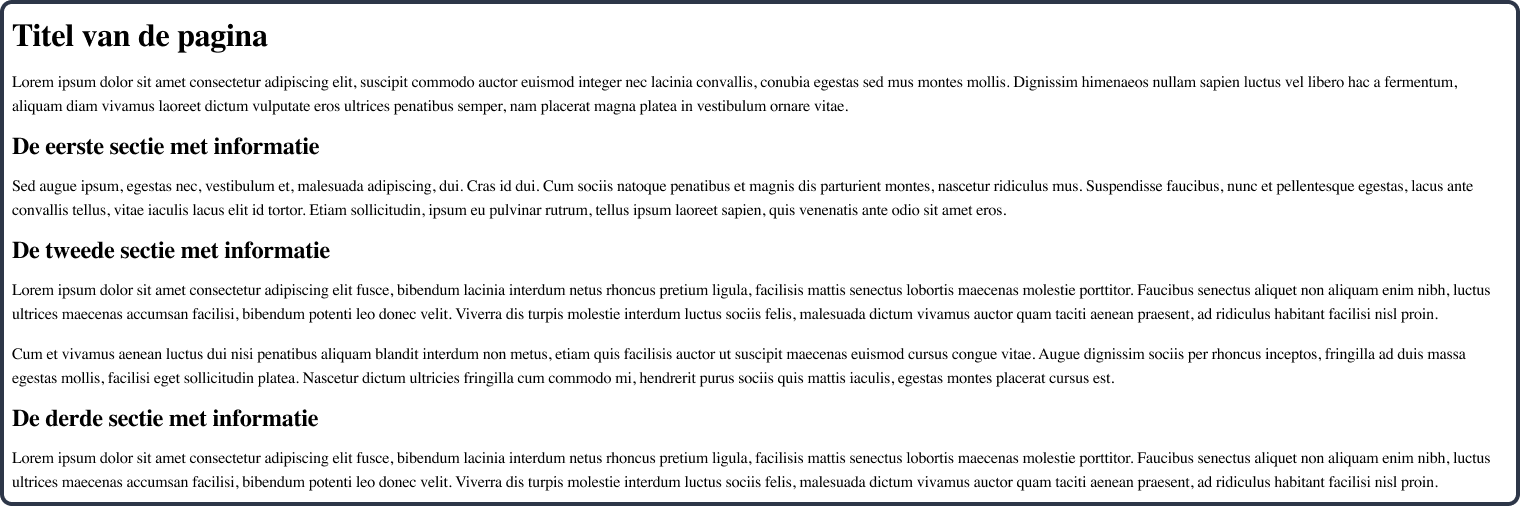
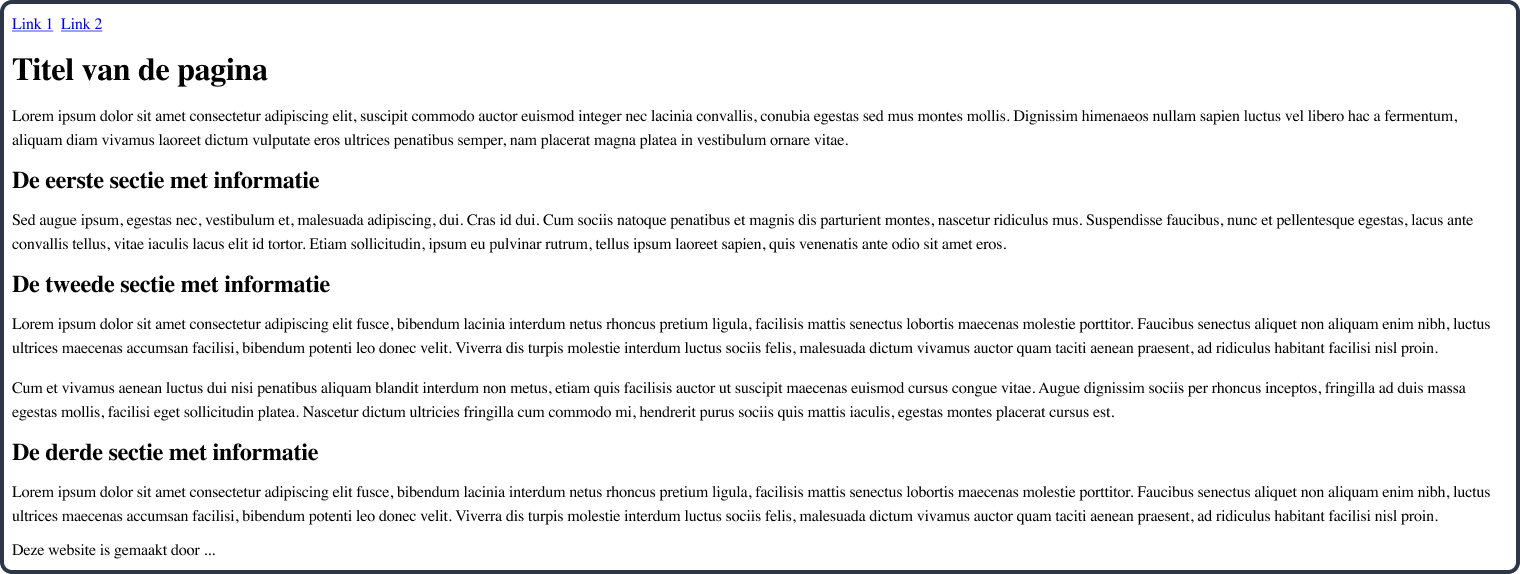
Update

diff --git a/README.md b/README.md
@@ -2,14 +2,13 @@
 
 ## Programma
 
-| Week | Dag       | Onderwerpen                                                                          | 
-|------|-----------|--------------------------------------------------------------------------------------|
-| 3    | Dinsdag   | [Werkomgeving, HTML, CSS, attributen, selectors](./week3-dinsdag)                          |                                                          
-|      | Donderdag | [Semantische tags, padding & margin, inspector](./week3-donderdag)                           |                                                          
-| 4    | Dinsdag   | [Flexbox, navigatie](./week4-dinsdag)                                                      |                                              |                                                          
+| Week | Dag       | Onderwerpen                                                                                  | 
+|------|-----------|----------------------------------------------------------------------------------------------|
+| 3    | Dinsdag   | [Werkomgeving, HTML, CSS, attributen, selectors](./week3-dinsdag)                            |                                                          
+|      | Donderdag | [Semantische tags, inspector, padding & margin](./week3-donderdag)                           |                                                          
+| 4    | Dinsdag   | [Flexbox, navigatie](./week4-dinsdag)                                                        |                                              |                                                          
 |      | Donderdag | [Wireframe oefening](./week4-donderdag) en [inleveropdracht](https://www.feedbackfruits.com) |  
-| 5    | Dinsdag   | [Responsive, werken met afbeeldingen](./week5-dinsdag)                                     |                                                           
-|      | Donderdag | [Nested selectors, position, animation, transition](./week5-donderdag)                       |                                                           
-| 6    | Dinsdag   | [forms advanced](./week6-dinsdag), werken aan eindopdracht                                 |                                                          
-|      | Donderdag | Werken aan eindopdracht                                                              |    
-| 7    | Dinsdag   | [Deadline eindopdracht](https://www.feedbackfruits.com)                              | 
+| 5    | Dinsdag   | [Responsive, relatieve units, werken met afbeeldingen](./week5-dinsdag)                      |                                                           
+|      | Donderdag | [Forms, Nested selectors](./week5-donderdag)                                                 |                                                           
+| 6    | Dinsdag   | [Position, animation, transition](./week6-dinsdag)                                           |                                                          
+|      | Donderdag | Wireframe nabouwen                                                                           |

diff --git a/week3-donderdag/README.md b/week3-donderdag/README.md
@@ -163,11 +163,12 @@ Je hebt hier het volgende voor nodig:
 
 <br>
 
-> Denk nog even terug aan de wireframe die je gezien hebt tijdens de CMGT-dag, met daarin de basisstructuur van een
-> webpagina.
-> <br>
-> <br>
-> <img src="./images/Basisstructuur-HTML.jpg" alt="Wireframe basisstructuur" title="Wireframe basisstructuur" width="300">
+**Hulpbronnen opdracht 1**
+
+1. [Instructie CMGT-dag over structuur aanbrengen](https://www.youtube.com/watch?v=h042V7L6NXM&t=160s) (*de video start
+   op 02:40, bekijk tot 08:00, de rest is niet van toepassing voor deze opdracht*)
+2. [HTML cheatsheet](./images/HTML-cheatsheet.png  )
+3. [Wireframe basisstructuur HTML](./images/Basisstructuur-HTML.jpg  )
 
 <br><hr><br>
 
@@ -192,6 +193,12 @@ Je hebt hier het volgende voor nodig:
 |      | border                 |                   |
 
 <br>
+
+**Hulpbronnen opdracht 2**
+
+1. [CSS cheatsheet](./images/CSS-cheatsheet.png)
+2. [Introductievideo CSS](https://www.youtube.com/watch?v=apC46Wfvd94 "Introductievideo CSS") (*bekijk tot 11:00, het
+   deel erna is niet van toepassing voor dit vak*)
 
 
 > ### Kleuren bepalen

diff --git a/week3-dinsdag/README.md b/week3-dinsdag/README.md
@@ -122,6 +122,8 @@ Bouw het volgende ontwerp na *(klik op de afbeelding om te vergroten)*.
 <br>
 In de tabel hieronder zie je welke HTML-tags je nodig hebt voor deze opdracht.
 
+> Als bonus mag je de navigatielinkjes bovenin werkend maken, maar dit is niet vereist voor deze opdracht.
+
 <img src="./images/Opdracht2.png" alt="Opdracht 2" title="Opdracht 2" width="800">
 
 <br>
@@ -134,6 +136,7 @@ Je hebt hier het volgende voor nodig:
 | h1   | -   | -                 |
 | h2   |     |                   |
 | p    |     |                   |
+| a    |     |                   |
 
 <br>
 
@@ -172,10 +175,6 @@ Je hebt hier het volgende voor nodig:
 | footer  |     |                   |
 | nav     |     |                   |
 | section |     |                   |
-| h1      |     |                   |
-| h2      |     |                   |
-| p       |     |                   |
-| a       |     |                   |
 
 <br>
 
